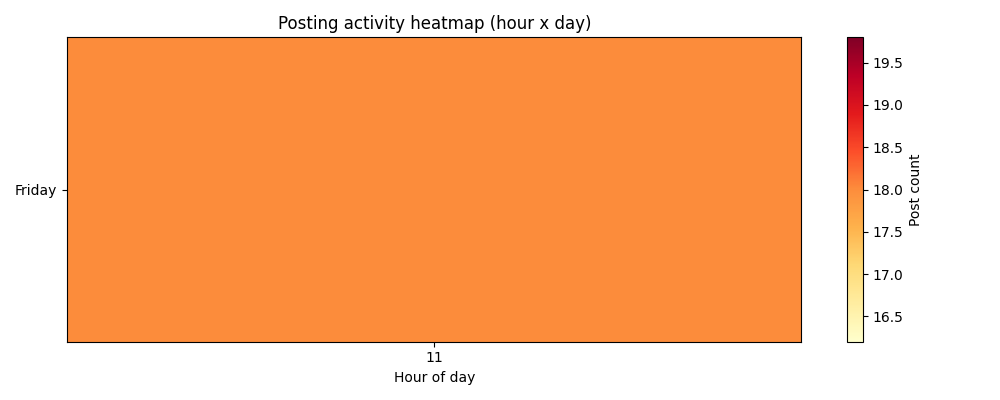
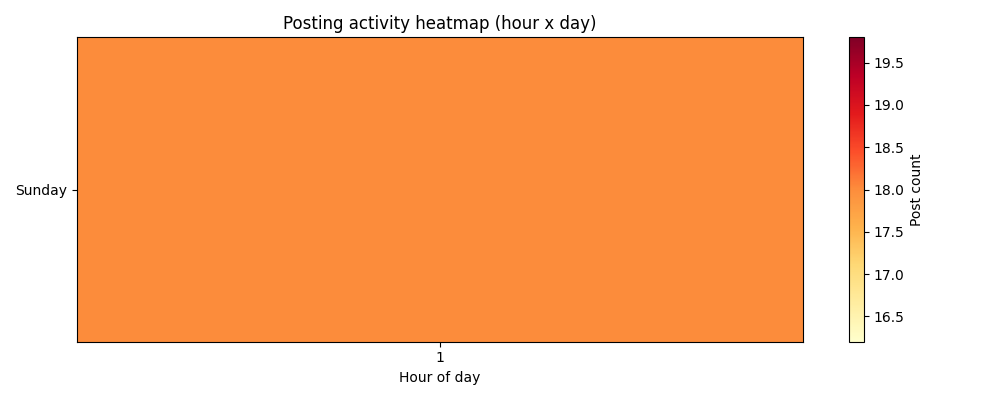
Prepwork for docker image

diff --git a/web_dashboard.py b/web_dashboard.py
@@ -8,33 +8,30 @@ Run with: python3 web_dashboard.py
 Then open: http://127.0.0.1:5000
 """
 
-from flask import Flask, render_template, jsonify, request
+from flask import Flask, render_template, jsonify, request, send_from_directory
 import sqlite3
 import os
 
-DB_PATH = os.path.join(os.path.dirname(os.path.abspath(__file__)), "ptt_data.db")
+DATA_DIR = os.environ.get("DATA_DIR", ".")
+DB_PATH = os.path.join(DATA_DIR, "ptt_data.db")
 
 app = Flask(__name__)
-
 
 def get_connection():
     conn = sqlite3.connect(DB_PATH)
     conn.row_factory = sqlite3.Row
     return conn
 
-
 def db_exists():
     return os.path.exists(DB_PATH)
-
 
 @app.route("/")
 def index():
     return render_template("dashboard.html")
 
-
[email redacted]("/api/status")
-def api_status():
-    return jsonify({"db_found": db_exists(), "db_path": DB_PATH})
[email redacted]("/data/<filename>")
+def serve_data_files(filename):
+    return send_from_directory(DATA_DIR, filename)
 
 
 @app.route("/api/summary")
@@ -242,9 +239,9 @@ def api_top_posters():
     conn.close()
     return jsonify(rows)
 
-
 if __name__ == "__main__":
     if not db_exists():
-        print("Warning: ptt_data.db not found.")
+        print(f"Warning: {DB_PATH} not found.")
         print("Run python3 ptt_analyzer.py first to generate the database.")
-    app.run(debug=True, port=5000)
+    app.run(host="0.0.0.0", port=5000)
+    

diff --git a/ptt_analyzer.py b/ptt_analyzer.py
@@ -24,17 +24,21 @@ import csv
 import time
 import re
 import threading
+import os
 from functools import wraps
 from datetime import datetime
 from collections import Counter
 import pandas as pd
 import matplotlib.pyplot as plt
 import matplotlib
+
 matplotlib.use("Agg")
 matplotlib.rcParams["font.sans-serif"] = ["Noto Sans CJK JP", "Noto Sans CJK SC", "DejaVu Sans"]
 matplotlib.rcParams["axes.unicode_minus"] = False
 
-DB_PATH = "ptt_data.db"
+DATA_DIR = os.environ.get("DATA_DIR", ".")
+os.makedirs(DATA_DIR, exist_ok=True)
+DB_PATH = os.path.join(DATA_DIR, "ptt_data.db")
 PTT_BASE_URL = "https://www.ptt.cc"
 
 
@@ -330,6 +334,8 @@ class PTTCrawler:
         return boards
 
 
+
+
 # ---------------------------------------------------------------------------
 # Sample data generator (used when live crawling is blocked or for demo/test)
 # ---------------------------------------------------------------------------
@@ -537,12 +543,16 @@ class Database:
         cur.execute("SELECT keyword, SUM(frequency) as total FROM keywords GROUP BY keyword ORDER BY total DESC")
         return cur.fetchall()
 
-    def export_json(self, path="export.json"):
+    def export_json(self, path=None):
+        if path is None:
+            path = os.path.join(DATA_DIR, "export.json")
         posts = self.get_all_posts()
         with open(path, "w", encoding="utf-8") as f:
             json.dump(posts, f, ensure_ascii=False, indent=2)
 
-    def export_csv(self, path="export.csv"):
+    def export_csv(self, path=None):
+        if path is None:
+            path = os.path.join(DATA_DIR, "export.csv")
         posts = self.get_all_posts()
         if not posts:
             return
@@ -700,7 +710,7 @@ class Visualizer:
 
     def __init__(self, analyzer, output_dir="."):
         self.analyzer = analyzer
-        self.output_dir = output_dir
+        self.output_dir = output_dir or DATA_DIR
 
     def plot_posting_activity_heatmap(self, filename="heatmap.png"):
         pivot = self.analyzer.activity_heatmap_data()